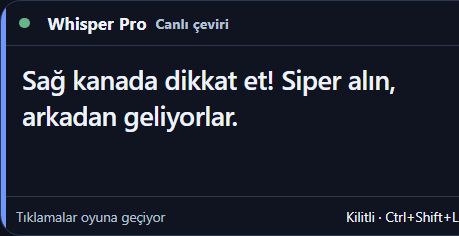
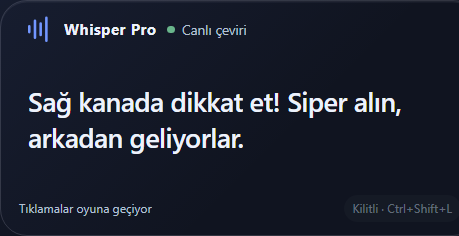
Oyun kutusu yeni tasarımını ve görsel kontrollerini belgele

Changed region(s): [[0.0, 0.0, 1.0, 0.9788], [0.0305, 0.9788, 0.061, 1.0]]

diff --git a/docs/devir/2026-09-14-1430.md b/docs/devir/2026-09-14-1430.md
@@ -1,0 +1,25 @@
+# Oyun kutusu görsel iyileştirmesi
+
+- Repo: https://github.com/dorukakindev/whisper-live; dal `main`.
+- Başlangıç HEAD: `c314bfb1206f1f491a2658a5cc93224b715d5640`.
+- Bitiş kod commit'i: `de38d0da47d898dbd162b893f025bcbe4af4f0fa`.
+- Başlangıç ağacı temiz; fetch başarılı. Kullanıcının “daha güzel yap” talebi mevcut oyun kutusuna uygulandı.
+
+## Değişiklikler
+
+`templates/overlay.html`: üst üste eklenmiş eski stiller tek stil sisteminde toplandı. İnce başlık, küçük ses dalgası işareti, hafif vurgu ışığı, daha dengeli tipografi, ikincil orijinal metin çizgisi, küçük kilit düğmesi ve sade alt şerit. Kilitli kutuda kısa metin dikey ortalanır, uzun metinde safe center kaydırma başlangıcını korur. Görünüm kaydırıcıları inceltildi. Açık tema kontrolünde yardımcı metinlerin kök koyu alias'ları miras aldığı görüldü; body üzerinde tema tokenlarıyla düzeltildi.
+
+`test_cockpit_browser.js`: küçük kilitli kutuda örnek metnin tamamen görünmesi ve açık temada yardımcı yazı renginin doğrulanması; ayarlar açık görüntüsü. `DESIGN.md`: görsel kararlar. `docs/images/game-overlay.png` güncel küçük koyu görünüm; `game-overlay-settings.png` açık tema/ayar görünümü. Görüntüler sentetik cümlelerdir.
+
+Kullanım ve kısayollar değişmedi; önceki `2026-09-14-1420.md` notundaki açma/taşıma/kilit talimatları geçerli. Yeni bağımlılık, ayar veya veri göçü yok; mevcut tercihler korunur.
+
+## Kontroller
+
+- `electron.cmd test_cockpit_browser.js`: gerçek Chromium davranış ve görsel testleri geçti; küçük metin kesilmesi ve açık tema rengi doğrulandı.
+- `electron.cmd test_game_overlay_native.js`: gerçek Electron/preload, üstte tutma, fare kilidi/odak ve kısayol temizliği geçti.
+- `node test_game_overlay.js`, `node test_new_report_frontend.js`, `node test_frontend_regressions.js`: geçti.
+- Premium strict audit: 0 hata/uyarı; rapor artifacts içinde. `git diff --check` temiz.
+- Bundled Node 24.19.0 ile `build.js`: portable yenilendi, hassas dosya taramaları temiz. Paket overlay.html kaynakla bayt bazında eşleşti.
+- Backend değişmediğinden Python/gerçek HTTP testleri tekrarlanmadı. Gerçek oyun/ücretli çeviri/özel tam ekran uyumluluğu test edilmedi. Önceki Torch c10.dll sorunu bu görsel çalışmada ele alınmadı.
+
+Kod commit'i oluşturuldu. Tasarım, görseller ve not ayrı belge commit'iyle push edilir; uzak HEAD son yanıtta doğrulanır. Uygulamayı yeniden başlat; portable yerelde `dist/Whisper-Pro-win32-x64/Whisper-Pro.exe`. Dist Git'e eklenmez. Proxifier kapalı bırakıldı. Kaynak/görsel işi tamamlandı; kalan uçtan uca sınırlar yukarıdadır.

diff --git a/DESIGN.md b/DESIGN.md
@@ -98,6 +98,8 @@ Görüşmeye hazırlık açıldığında model ve AI durumu sunucudan alınır; 
 
 ### Oyun çeviri kutusu
 
+Görsel yön: küçük ses dalgası işareti, ince başlık, ortak vurgu renginden türeyen hafif yüzey ışığı ve 18 px köşe. Tam genişlikte kalın ayırıcılar kullanılmaz. Çeviri 550 ağırlığında; orijinal metin ince dikey çizgiyle ikincildir. Kilitli modda metin taşmıyorsa dikey ortalanır, uzun metinde kaydırma başlangıcı korunur. Durum ve kısayol alt şeritte sakin görünür. Görünüm kaydırıcıları ince iz ve yuvarlak tutamaç kullanır. Açık temada yardımcı metin alias'ları body kapsamındaki tema tokenlarından çözülür; kökteki koyu renk miras alınmaz.
+
 Ana pencerenin Oyun çevirisi düğmesi aynı backend'in `/overlay` penceresini açar. Varsayılan 520×240, en küçük 320×220; ekran dışındaki kayıtlı konum görünür alana taşınır. Pencere odağı çalmadan açılır. Büyük çeviri birincil, küçük orijinal metin ikincildir; kaynak sistem sesidir, mic/PTT olayları gösterilmez. Önceki tema tokenları korunur; zemin saydamlığı ve 18–36 px yazı tercihi yerel saklanır.
 
 Ctrl+Shift+O göster/gizle, Ctrl+Shift+L oyun kilididir. Kilit fareyi oyuna geçirir ve pencereyi odaklanamaz yapar; açılınca görünüm/taşıma kontrolleri geri gelir. Kilit kısayolu kaydedilemezse kilitleme reddedilir. Kilitli modda yalnız çeviri görünür, dar boyutta yazı en çok 18 px olur; kontroller alanı küçülür. Çok uzun çeviriler için kutu büyütülebilir veya yazı küçültülebilir. Ayar/yardım alanı başlangıçta kapalıdır. Backend sıfırlaması, düzeltme sürümü, geç gelen çeviri ve PTT ayrımı ortak kayıt sözleşmesine uyar. Exclusive fullscreen desteği garanti edilmez; kenarlıksız pencere modu önerilir. Harici DLL enjeksiyonu/hook yoktur.

diff --git a/DEVIR-NOTU.md b/DEVIR-NOTU.md
@@ -2,9 +2,11 @@
 
 Yeni oturum ve format sonrası kurulum: [BASLANGIC.md](BASLANGIC.md)
 
-Güncel devir notu: [2026-09-14 14:20 — Oyun üstü canlı çeviri kutusu](docs/devir/2026-09-14-1420.md)
+Güncel devir notu: [2026-09-14 14:30 — Oyun kutusu görsel iyileştirmesi](docs/devir/2026-09-14-1430.md)
 
 ## Arşiv
+
+- [2026-09-14 14:30 — Oyun kutusu görsel iyileştirmesi](docs/devir/2026-09-14-1430.md)
 
 - [2026-09-14 14:20 — Oyun üstü canlı çeviri kutusu](docs/devir/2026-09-14-1420.md)
 
